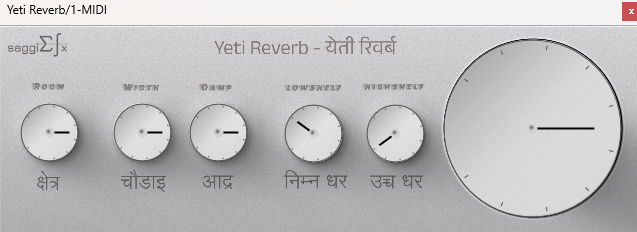
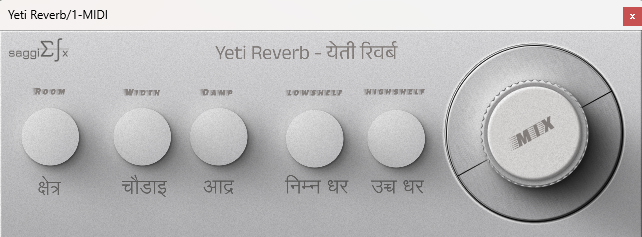
UI update

diff --git a/Source/RotaryImageDial.h b/Source/RotaryImageDial.h
@@ -5,7 +5,7 @@
 class ImageKnobLook : public LookAndFeel_V4
 {
 private:
-    String imageName;
+    String imgName;
     int frameWidth = 0, frameHeight = 0;
     Image dialImg;
 
@@ -14,7 +14,7 @@ public:
 
     void setImage(const String& assetName, int asset_w, int asset_h)
     {
-        imageName = assetName;
+        imgName = assetName;
         frameWidth = asset_w;
         frameHeight = asset_h;
     }
@@ -23,55 +23,16 @@ public:
         float sliderPosProportional, float rotaryStartAngle, float rotaryEndAngle,
         Slider& slider) override
     {
-        float centerX = x + width * 0.5f;
-        float centerY = y + height * 0.5f;
-        float radius = jmin(width, height) * 0.4f;
+        int frameIndex = static_cast<int>(sliderPosProportional * 90) % 91;
+        String assetFullName = imgName + "_" + String(frameIndex) + "_png";
+        int size = 0;
+        const char* data = BinaryData::getNamedResource(assetFullName.toUTF8(), size);
 
-        float newWidth = radius * 2;
-        float newHeight = radius * 2;
-        float newX = centerX - radius;
-        float newY = centerY - radius;
-
-        ColourGradient backgroundGradient(Colours::grey, newX, newY, Colours::lightgrey, newX + newWidth, newY + newHeight, false);
-        backgroundGradient.addColour(0.5, Colours::white.withAlpha(0.6f));
-        g.setGradientFill(backgroundGradient);
-        g.fillEllipse(newX, newY, newWidth, newHeight);
-
-        ColourGradient highlightGradient(Colours::white.withAlpha(0.3f), newX, newY, Colours::transparentWhite, newX + newWidth, newY + newHeight, false);
-        g.setGradientFill(highlightGradient);
-        g.fillEllipse(newX, newY, newWidth, newHeight);
-
-        g.setColour(Colours::darkgrey);
-        g.drawEllipse(newX, newY, newWidth, newHeight, 1.0f);
-
-        ColourGradient shadowGradient(Colours::black.withAlpha(0.1f), newX, newY, Colours::transparentBlack, newX + newWidth, newY + newHeight, false);
-        g.setGradientFill(shadowGradient);
-        g.fillEllipse(newX, newY, newWidth, newHeight);
-
-        float angle = rotaryStartAngle + sliderPosProportional * (rotaryEndAngle - rotaryStartAngle);
-        float indicatorLength = radius * 0.7f;
-        float indicatorX = centerX + indicatorLength * std::cos(angle);
-        float indicatorY = centerY + indicatorLength * std::sin(angle);
-
-        g.setColour(Colours::black);
-        g.drawLine(centerX, centerY, indicatorX, indicatorY, 2.0f);
-
-        ColourGradient capGradient(Colours::darkgrey, centerX - 1, centerY - 1, Colours::lightgrey, centerX + 1, centerY + 1, true);
-        g.setGradientFill(capGradient);
-        g.fillEllipse(centerX - 5.0f, centerY - 5.0f, 10.0f, 10.0f);
-
-        g.setColour(Colours::darkgrey);
-        for (int i = 0; i < 10; ++i) {
-            float tickAngle = rotaryStartAngle + i * (rotaryEndAngle - rotaryStartAngle) / 9.0f;
-            float tickStartX = centerX + radius * 0.9f * std::cos(tickAngle);
-            float tickStartY = centerY + radius * 0.9f * std::sin(tickAngle);
-            float tickEndX = centerX + radius * 0.95f * std::cos(tickAngle);
-            float tickEndY = centerY + radius * 0.95f * std::sin(tickAngle);
-            g.drawLine(tickStartX, tickStartY, tickEndX, tickEndY, 1.0f);
+        if (data != nullptr) {
+            dialImg = ImageCache::getFromMemory(data, size);
+            g.drawImage(dialImg, x, y, width, height, 0, 0, frameWidth, frameHeight);
         }
     }
-
-
 };
 
 

diff --git a/Source/PluginEditor.cpp b/Source/PluginEditor.cpp
@@ -18,18 +18,20 @@ YetiReverbAudioProcessorEditor::YetiReverbAudioProcessorEditor (YetiReverbAudioP
     setSize (644, 210);
 
     addAndMakeVisible(mixKnob);
-    addAndMakeVisible(dampKnob);
-    addAndMakeVisible(sizeKnob);
-    addAndMakeVisible(widthKnob);
-    addAndMakeVisible(lowshelfKnob);
-    addAndMakeVisible(highshelfKnob);
+    //addAndMakeVisible(dampKnob);
+    //addAndMakeVisible(sizeKnob);
+    //addAndMakeVisible(widthKnob);
+    //addAndMakeVisible(lowshelfKnob);
+    //addAndMakeVisible(highshelfKnob);
+
+    mixKnob.setImage("xknob", 370, 370);
 
     mixKnob.setAudioParameter(audioProcessor.apvts, ParamIDs::mix);
-    sizeKnob.setAudioParameter(audioProcessor.apvts, ParamIDs::size);
-    dampKnob.setAudioParameter(audioProcessor.apvts, ParamIDs::damp);
-    widthKnob.setAudioParameter(audioProcessor.apvts, ParamIDs::width);
-    lowshelfKnob.setAudioParameter(audioProcessor.apvts, ParamIDs::lowshelf);
-    highshelfKnob.setAudioParameter(audioProcessor.apvts, ParamIDs::highshelf);
+    //sizeKnob.setAudioParameter(audioProcessor.apvts, ParamIDs::size);
+    //dampKnob.setAudioParameter(audioProcessor.apvts, ParamIDs::damp);
+    //widthKnob.setAudioParameter(audioProcessor.apvts, ParamIDs::width);
+    //lowshelfKnob.setAudioParameter(audioProcessor.apvts, ParamIDs::lowshelf);
+    //highshelfKnob.setAudioParameter(audioProcessor.apvts, ParamIDs::highshelf);
 }
 
 YetiReverbAudioProcessorEditor::~YetiReverbAudioProcessorEditor()
@@ -54,5 +56,5 @@ void YetiReverbAudioProcessorEditor::resized()
     dampKnob.setBounds(widthKnob.getRight() + 5, sizeKnob.getY(), knobSize, knobSize);
     lowshelfKnob.setBounds(dampKnob.getRight() + 24, 73, knobSize, knobSize);
     highshelfKnob.setBounds(lowshelfKnob.getRight() + 11, 73, knobSize, knobSize);
-    mixKnob.setBounds(highshelfKnob.getRight()-9, -7, 221, 221);
+    mixKnob.setBounds(444, 12, 183, 183);
 }
